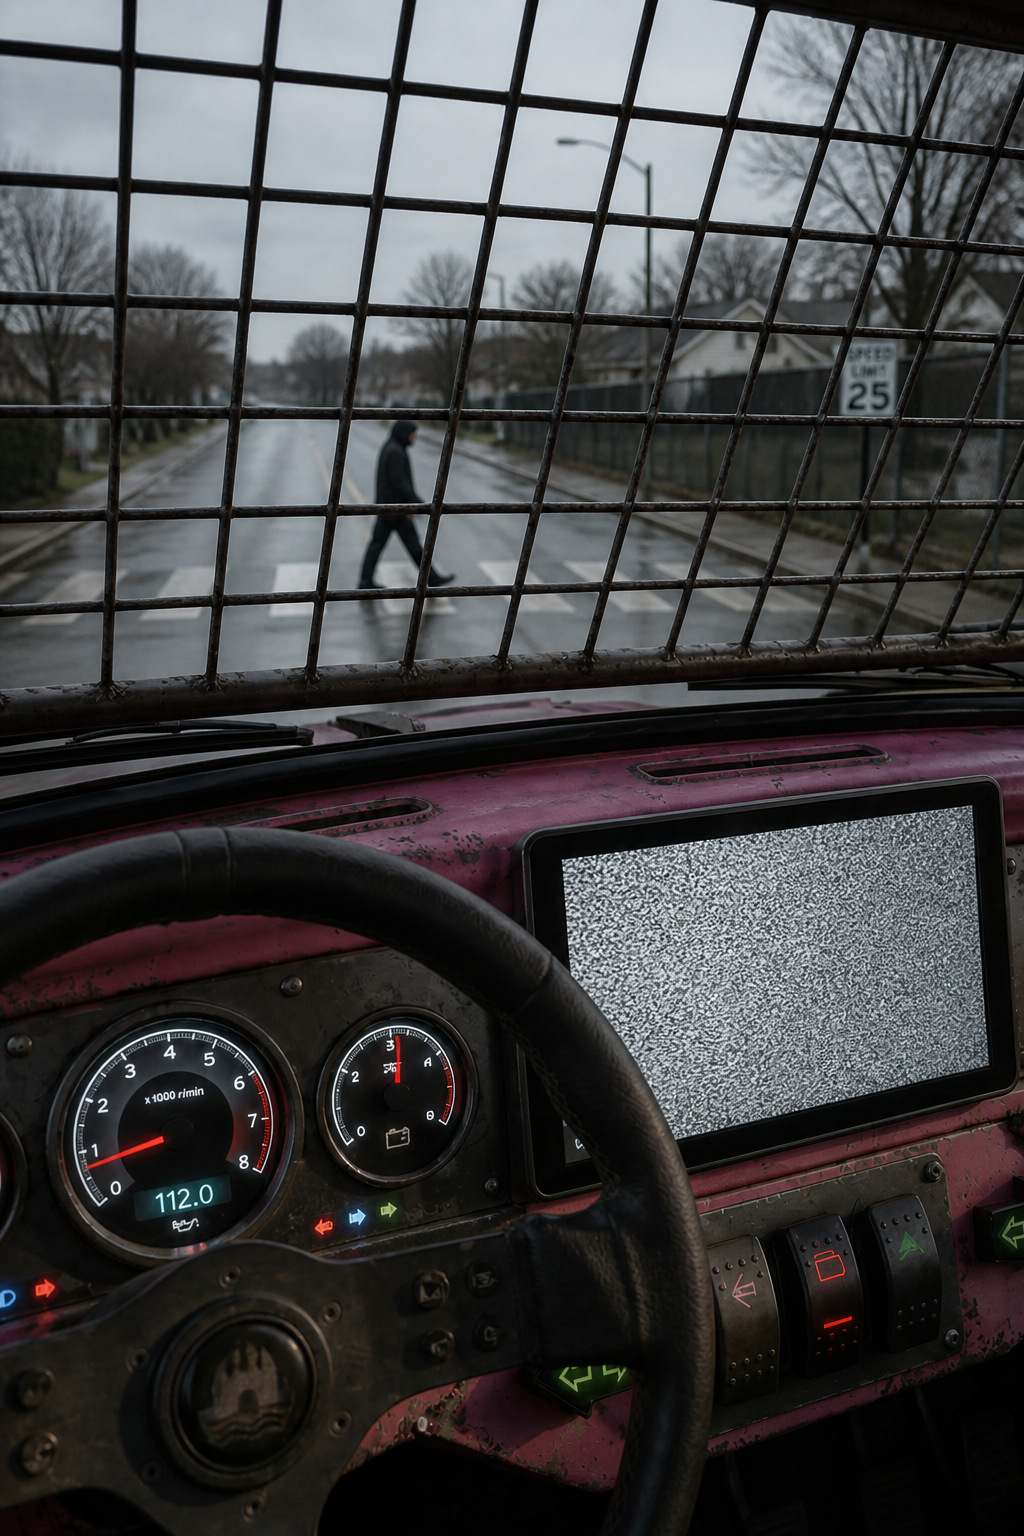
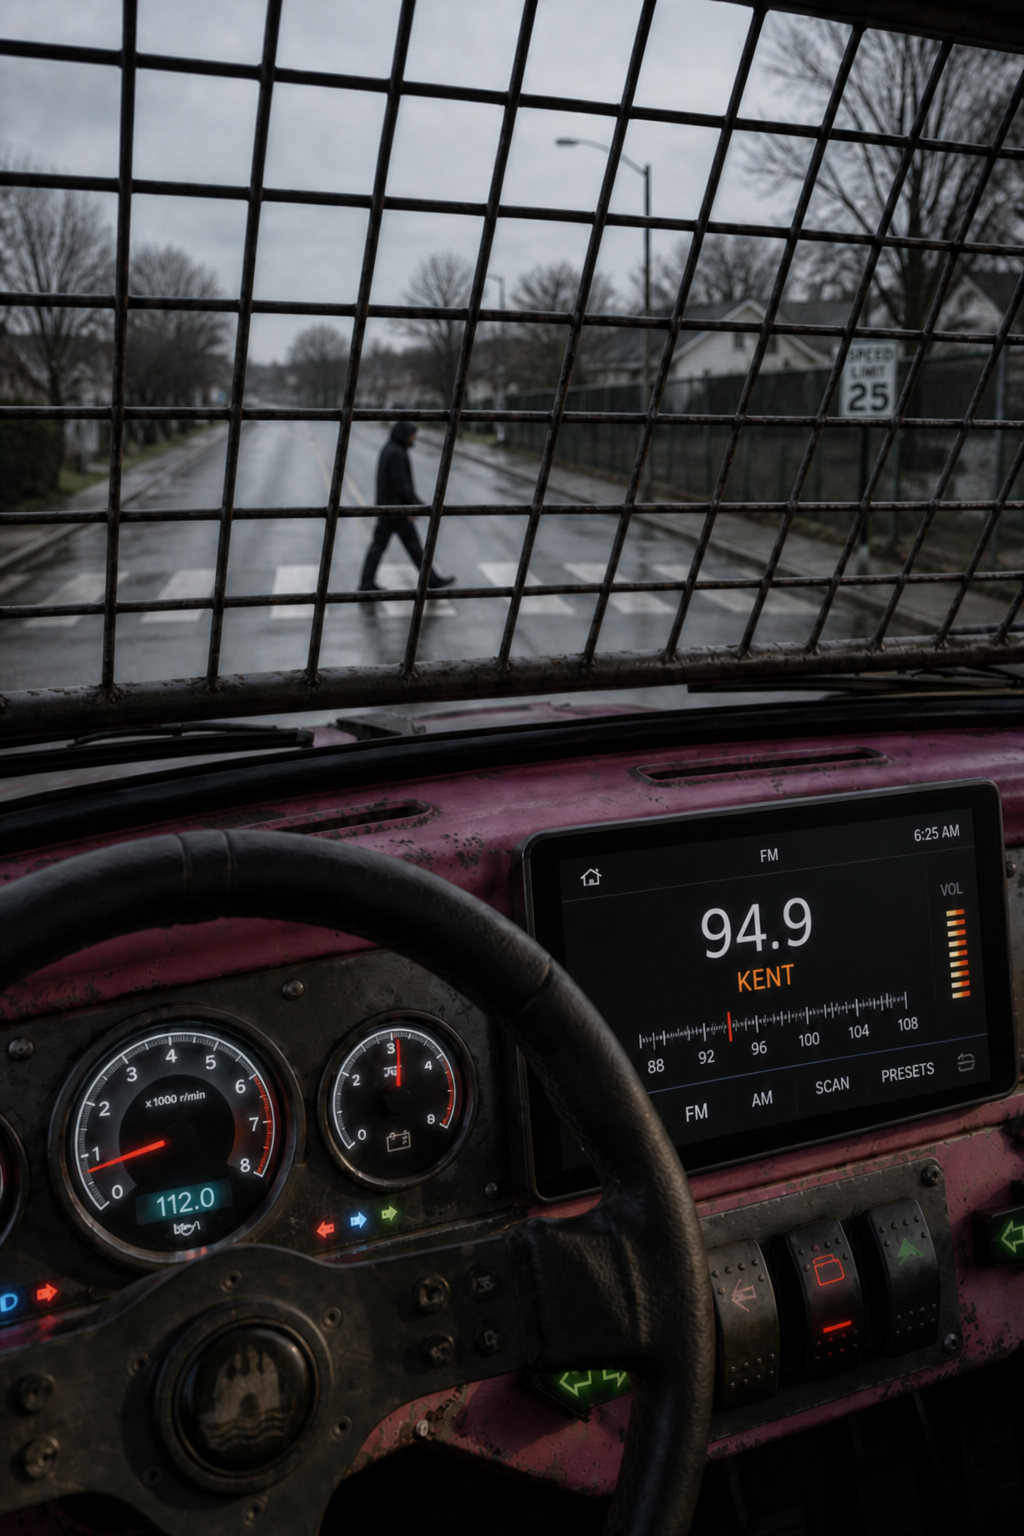
Show a live radio on the II-009 tablet, not static.
The Chorus is a station that keyed itself — 94.9 KENT with a tuning readout — so the pedestrian and the screen compete for the same glance.

diff --git a/src/game.js b/src/game.js
@@ -150,7 +150,7 @@ function sceneFragment(scene) {
 }
 
 function imageUrl(cardId) {
-  return "/api/run/image/" + encodeURIComponent(cardId) + "?v=a5";
+  return "/api/run/image/" + encodeURIComponent(cardId) + "?v=a6";
 }
 
 function cargoFrom(state) {
